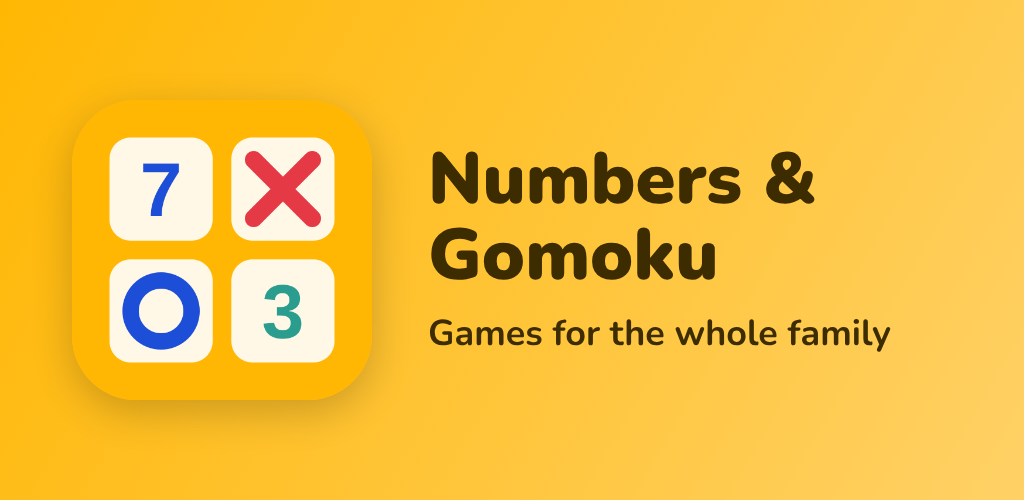
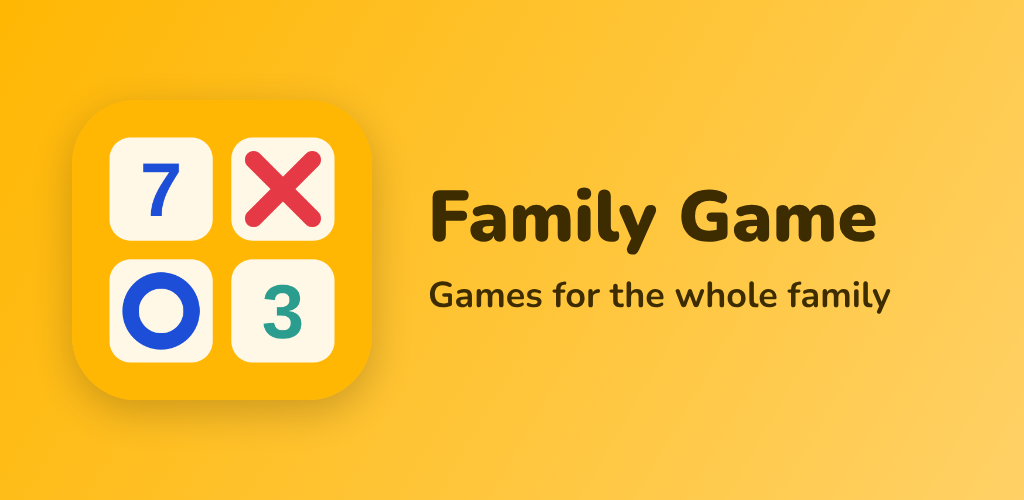
Store: rename app to Family Game, mention Cờ gánh in short description and review notes
Claude-Session: https://claude.ai/code/session_01SFZdZzeQbxhunHEM3pXjHe

Changed region(s): [[0.4062, 0.3, 0.875, 0.69]]

diff --git a/store/screenshots.spec.ts b/store/screenshots.spec.ts
@@ -209,7 +209,7 @@ for (const lang of ['vi', 'en'] as const) {
     const ctx = await browser.newContext({ viewport: { width: 1024, height: 500 } });
     const page = await ctx.newPage();
     const icon = readFileSync(join(ROOT, 'assets/icon-only.png')).toString('base64');
-    const title = lang === 'vi' ? 'Tìm số & Cờ ca rô' : 'Numbers & Gomoku';
+    const title = 'Family Game';
     const sub = lang === 'vi' ? 'Trò chơi cho cả nhà' : 'Games for the whole family';
     await page.setContent(`<html><head><style>${FONT_CSS}
       body{margin:0;width:1024px;height:500px;background:linear-gradient(120deg,#ffb703,#ffd166);font-family:Nunito;display:flex;align-items:center;gap:56px;padding:0 72px;box-sizing:border-box;color:#3d2c00}
